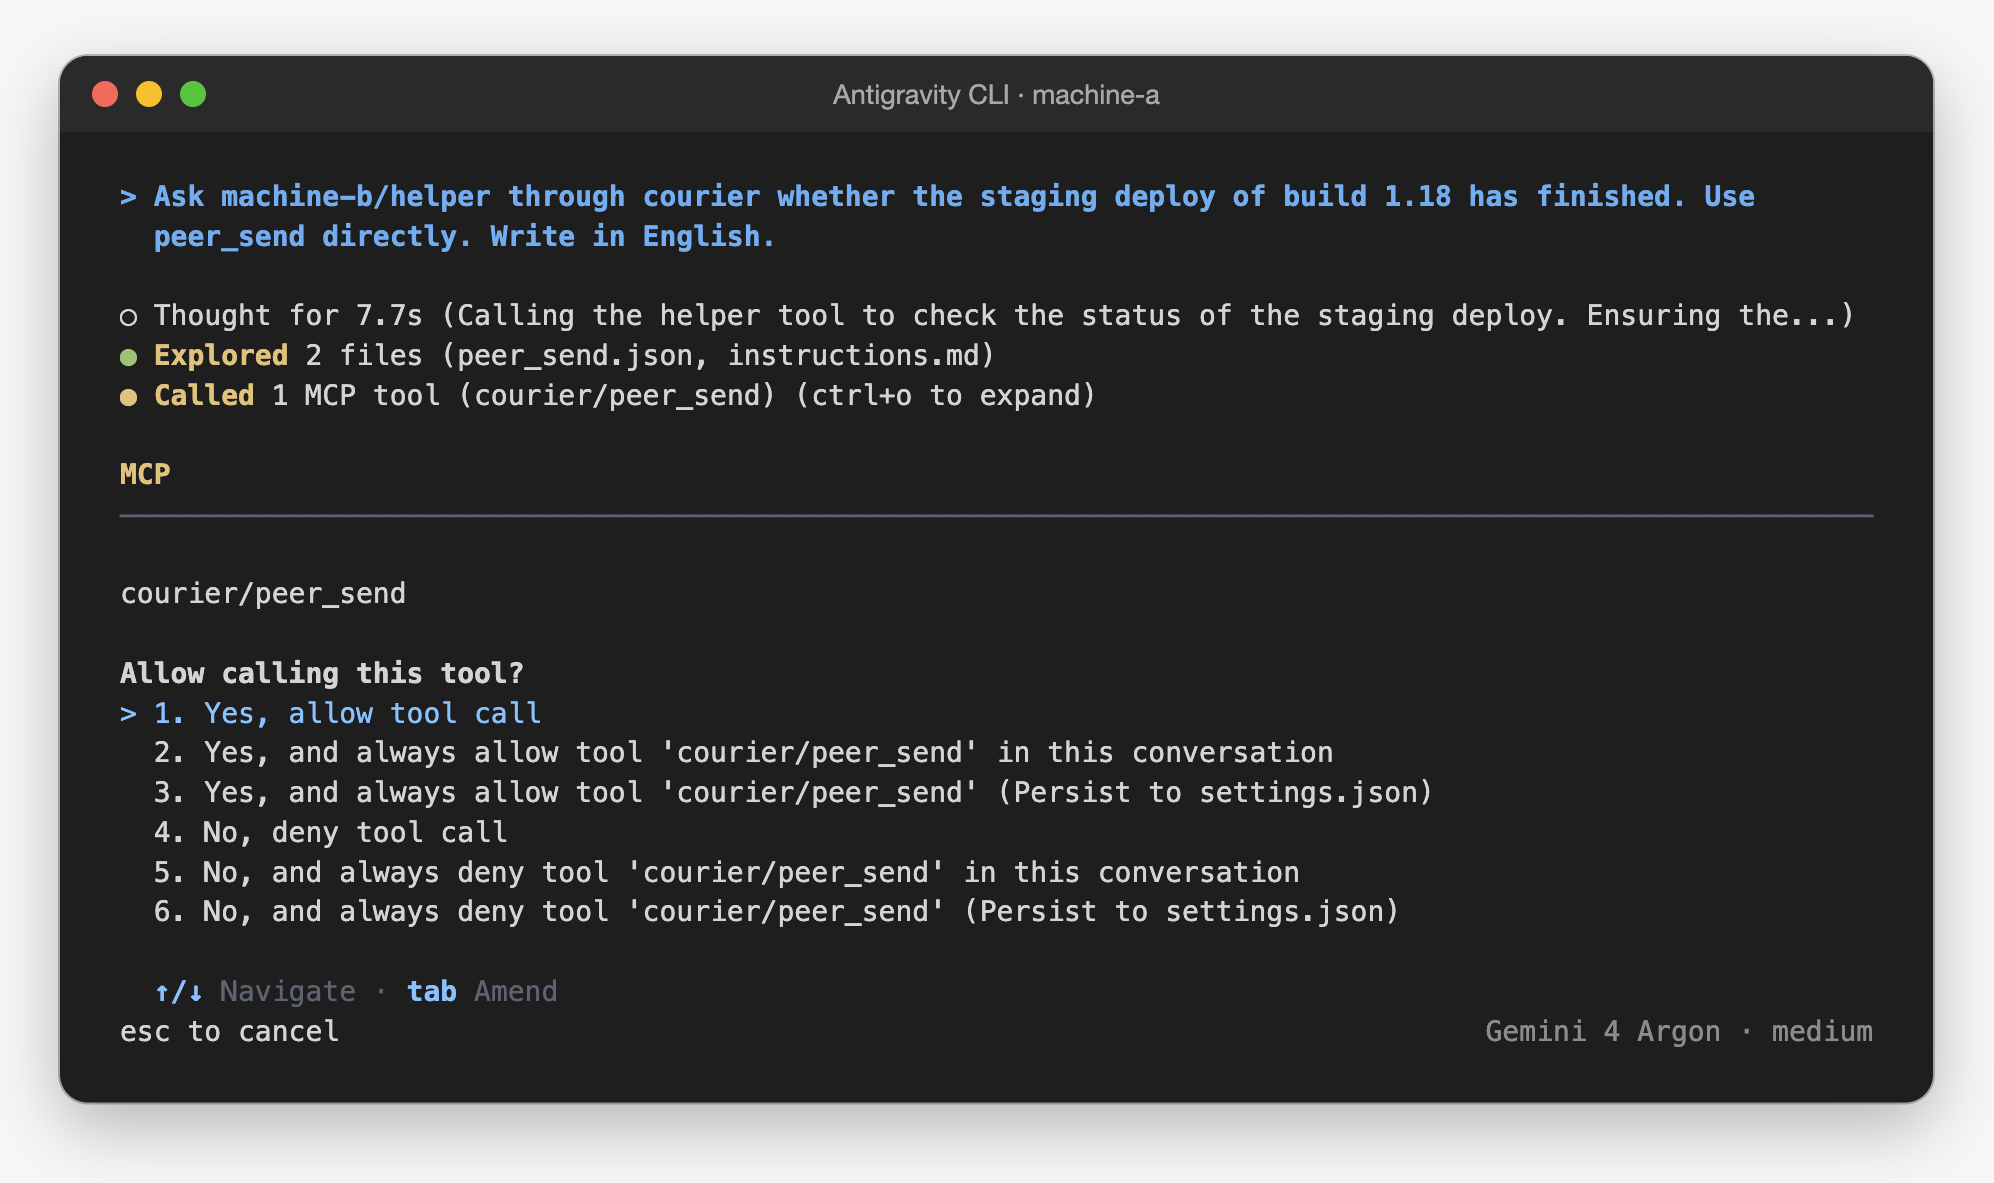
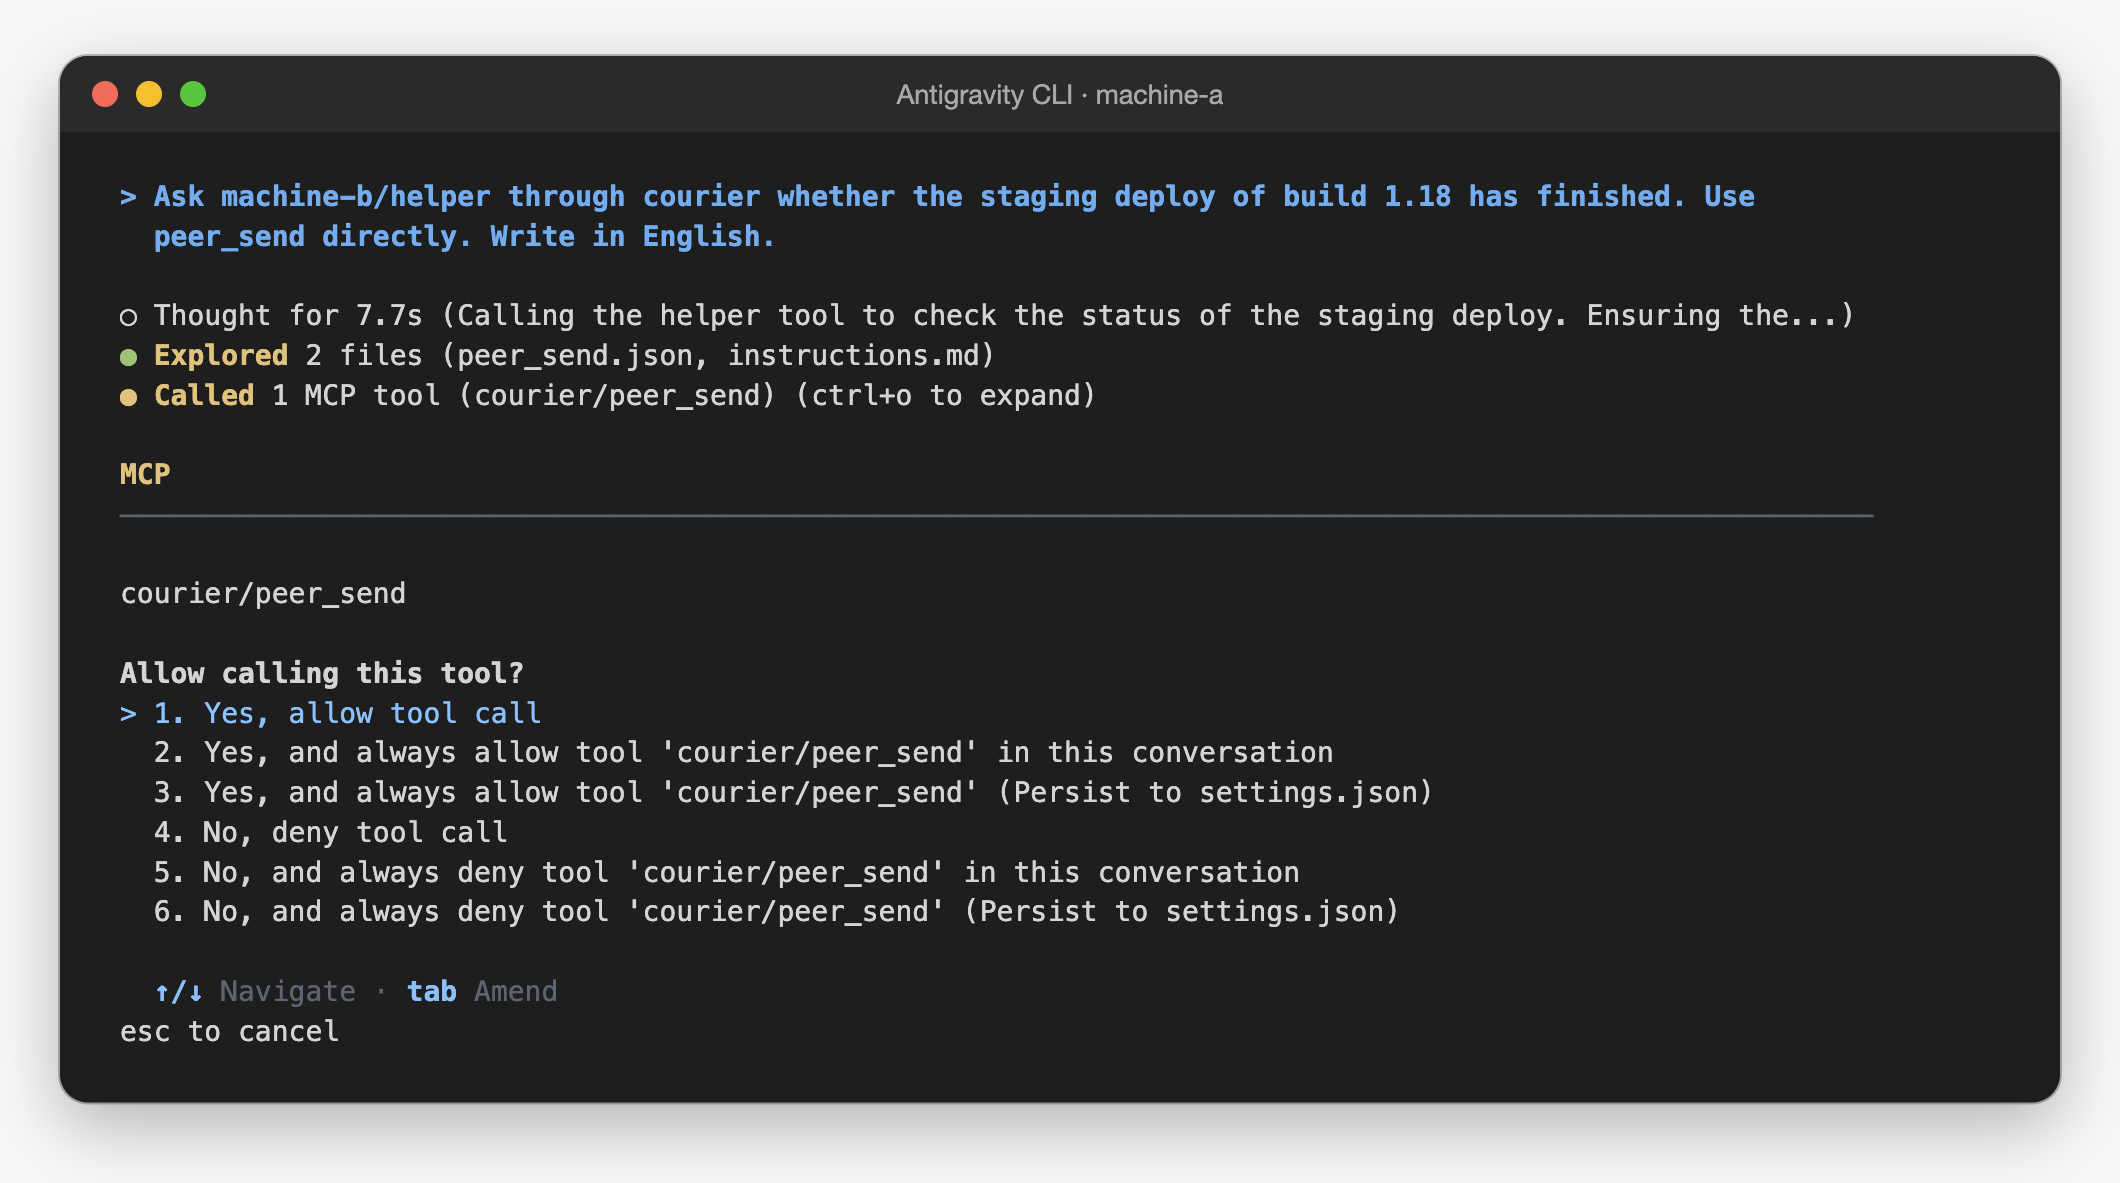
Docs: one table compares Claude Code, Codex and agy, the connection steps get one section per client, and the Codex and agy screenshots match the Claude one in size without the model name: README.md, README.zh-TW.md, docs/mcp.md, docs/assets/codex-approval.png, docs/assets/agy-approval.png

diff --git a/docs/mcp.md b/docs/mcp.md
@@ -11,22 +11,26 @@ The endpoint speaks MCP version 2026-07-28. Each request is independent: there i
 `initialize` handshake and no session. When a call needs your approval, the server answers
 with `input_required`. The client asks you, then sends the call again with your answer.
 
-To approve sends, the client must speak MCP 2026-07-28 and support form elicitation. Claude
-Code 2.1.295 and 2.1.311 were tested end to end between two machines over SSH. The Antigravity
-CLI (`agy`) 1.5.5 also speaks 2026-07-28, but it does not show agent-courier's approval
-question: it declines it at once, in its interactive screen too, so nothing is sent. Turn on
-auto-approve for an `agy` agent. `agy` then asks "Allow calling this tool?" before each call,
-with the tool name but not the text; allowing sends the message, denying sends nothing.
-
-The endpoint also serves clients that speak an older version (2025-11-25 and earlier), such as
+To approve sends, the client must speak MCP 2026-07-28 and support form elicitation. The
+endpoint also serves clients that speak an older version (2025-11-25 and earlier), such as
 Codex, without a session. All tools work, but such a client can never be asked: each send is
 refused unless auto-approve is on for that agent (see [Auto-approve](#auto-approve)).
 
-On one machine, Claude Code 2.1.322, Codex 0.167.1 and `agy` 1.5.5 were tested in every
-combination, the same client on both sides included: each sent to and answered each of the
-three, with auto-approve on. Between two machines (macOS on Apple silicon and on Intel, over
-SSH), Claude Code, Codex and `agy` on one each sent to Codex and `agy` on the other, and each
-reply came back.
+### Clients
+
+Only what was tested is listed.
+
+| Client and tested versions            | MCP version | Shows agent-courier's question                         | Auto-approve | Its own question before a call | Run without a screen                                                                                                                                  | Token kept in                                                      |
+| ------------------------------------- | ----------- | ------------------------------------------------------ | ------------ | ------------------------------ | ----------------------------------------------------------------------------------------------------------------------------------------------------- | ------------------------------------------------------------------ |
+| Claude Code 2.1.295, 2.1.311, 2.1.322 | 2026-07-28  | Yes, with the whole text under Send                    | Not needed   | None                           | `claude -p` cannot answer, so the send is refused; with auto-approve on, it goes without anyone seeing it                                             | Its configuration, `~/.claude.json` with the default (local) scope |
+| Codex 0.167.1                         | 2025-06-18  | No: the send is refused ("this client cannot ask")     | Needed       | Recipient and text             | `codex exec` blocks the send unless `default_tools_approval_mode = "approve"`; with that and auto-approve on, nobody sees the message                 | The environment variable named in `bearer_token_env_var`           |
+| `agy` 1.5.5                           | 2026-07-28  | No: it declines at once, in its interactive screen too | Needed       | Tool name only                 | `agy -p` denies the tool call itself, so nothing is sent; with `--dangerously-skip-permissions` and auto-approve on, it goes without anyone seeing it | `~/.gemini/config/mcp_config.json`                                 |
+
+On one machine, these three were tested in every combination, the same client on both sides
+included: each sent to and answered each of the three, with auto-approve on. Between two
+machines (macOS on Apple silicon and on Intel, over SSH), Claude Code, Codex and `agy` on one
+each sent to Codex and `agy` on the other, and each reply came back. Claude Code showing
+agent-courier's question was tested between two machines with 2.1.295 and 2.1.311.
 
 How the approval question looks depends on the client version:
 
@@ -42,58 +46,68 @@ whole text; the size line above it tells you how long the text is.
 
 ## Connect a client
 
-`courier agent add <name>` prints the command for Claude Code:
+Each client uses the same URL and the token that `courier agent add <name>` prints. One token
+is one agent. Do not give the same token to two sessions: they would share one inbox.
+
+### Claude Code
+
+`courier agent add <name>` prints the command:
 
 ```bash
 claude mcp add --transport http courier http://127.0.0.1:47800/mcp \
   --header "Authorization: Bearer cour_..."
 ```
 
-- Run it in the project directory of the session. One token is one agent. Do not give the same
-  token to two sessions: they would share one inbox.
+- Run it in the project directory of the session.
 - Claude Code keeps the header, with the token, in its configuration. Do not let other persons
   read that file.
-- For a different client, use the same URL and header. To approve sends, it must use MCP
-  2026-07-28 and support form elicitation. An older client can connect, but sends only with
-  auto-approve on (see [Protocol](#protocol)).
-- For Codex, add the server to `~/.codex/config.toml` and keep the token in an environment
-  variable:
 
-  ```toml
-  [mcp_servers.courier]
-  url = "http://127.0.0.1:47800/mcp"
-  bearer_token_env_var = "COURIER_TOKEN"
-  ```
+### Codex
 
-  In its interactive screen, Codex 0.167.1 asks before each call and shows the arguments: the
-  recipient and the text. Allow sends the message; Cancel sends nothing. With
-  `courier auto-approve` on, that question is the only check by a person. In `codex exec`,
-  sends are blocked unless you set `default_tools_approval_mode = "approve"` in that section;
-  with that setting and auto-approve on, no person sees a message before it goes.
+Add the server to `~/.codex/config.toml` and keep the token in an environment variable:
 
-- For `agy`, add the server with its own command:
+```toml
+[mcp_servers.courier]
+url = "http://127.0.0.1:47800/mcp"
+bearer_token_env_var = "COURIER_TOKEN"
 
-  ```bash
-  agy mcp add --header "Authorization: Bearer cour_..." courier http://127.0.0.1:47800/mcp
-  ```
+[shell_environment_policy]
+exclude = ["COURIER_TOKEN"]
+```
 
-  `agy` 1.5.5 keeps the header, with the token, in `~/.gemini/config/mcp_config.json`.
-
+- Codex cannot show agent-courier's question, so turn on `courier auto-approve` for its agent.
+- In its interactive screen, Codex 0.167.1 asks before each call and shows the recipient and
+  the text. Allow sends the message; Cancel sends nothing. With auto-approve on, that question
+  is the only check by a person.
+- In `codex exec`, sends are blocked unless you set `default_tools_approval_mode = "approve"`
+  in the `mcp_servers.courier` section. With that setting and auto-approve on, no person sees a
+  message before it goes.
 - Codex passes its environment to the shell commands it runs, so an agent could read the token
-  and use it to answer its own approval questions. Exclude the variable in the same file
-  (tested with Codex 0.167.1). Set the variable only where Codex starts, not in a file the
-  agent can read, such as `~/.zshrc`:
+  and use it to answer its own approval questions. The `shell_environment_policy` lines above
+  hide it (tested with Codex 0.167.1). Set the variable only where Codex starts, not in a file
+  the agent can read, such as `~/.zshrc`.
 
-  ```toml
-  [shell_environment_policy]
-  exclude = ["COURIER_TOKEN"]
-  ```
+### agy
+
+Add the server with its own command:
+
+```bash
+agy mcp add --header "Authorization: Bearer cour_..." courier http://127.0.0.1:47800/mcp
+```
+
+- `agy` 1.5.5 keeps the header, with the token, in `~/.gemini/config/mcp_config.json`.
+- `agy` does not show agent-courier's question: it declines it, so nothing is sent. Turn on
+  `courier auto-approve` for its agent.
+- `agy` then asks "Allow calling this tool?" before each call, with the tool name but not the
+  text. Allowing sends the message; denying sends nothing.
+- `agy -p` cannot ask, so it denies the call itself and nothing is sent. With
+  `--dangerously-skip-permissions` and auto-approve on, no person sees a message before it goes.
 
 > [!IMPORTANT]
 > Prevent agent access to the data directory (`~/.config/agent-courier`) and to the client
 > configuration or environment variable that holds the token. For example, use a sandbox rule
-> that denies read and write access. A program with the token can act as that agent and can answer its approval
-> questions.
+> that denies read and write access. A program with the token can act as that agent and can
+> answer its approval questions.
 
 ## Tools
 

diff --git a/README.zh-TW.md b/README.zh-TW.md
@@ -97,7 +97,7 @@ Codex 和 `agy` 不會顯示這個問題。對它們的 agent 開了自動核准
 - Codex 0.167.1 和 `agy` 1.5.5 也能連上，單機和跨機都測過。兩者都不會顯示
   agent-courier 的確認問題，所以要對它們的 agent 開 `courier auto-approve`。
   開了之後，在互動介面裡它們呼叫工具前會自己問你，Codex 還會顯示訊息內容。
-  無介面執行時（`codex exec`、`agy -p`），訊息會在沒人看過的情況下送出。
+  無介面執行、又關掉它們自己的核准時，訊息會在沒人看過的情況下送出。
   請看 [docs/mcp.md](docs/mcp.md#connect-a-client)。
 
 ## 快速開始

diff --git a/README.md b/README.md
@@ -98,7 +98,7 @@ These two are real screens from one machine.
 - Codex 0.167.1 and `agy` 1.5.5 can connect too, on one machine and between two. Neither shows
   agent-courier's approval question, so turn on `courier auto-approve` for their agents. In its
   interactive screen, each then asks you itself before it calls a tool, and Codex shows the text.
-  Run without a screen (`codex exec`, `agy -p`), they send without anyone seeing the message.
+  Run without a screen and with their own approvals turned off, they send unseen.
   Refer to [docs/mcp.md](docs/mcp.md#connect-a-client).
 
 ## Quick start
